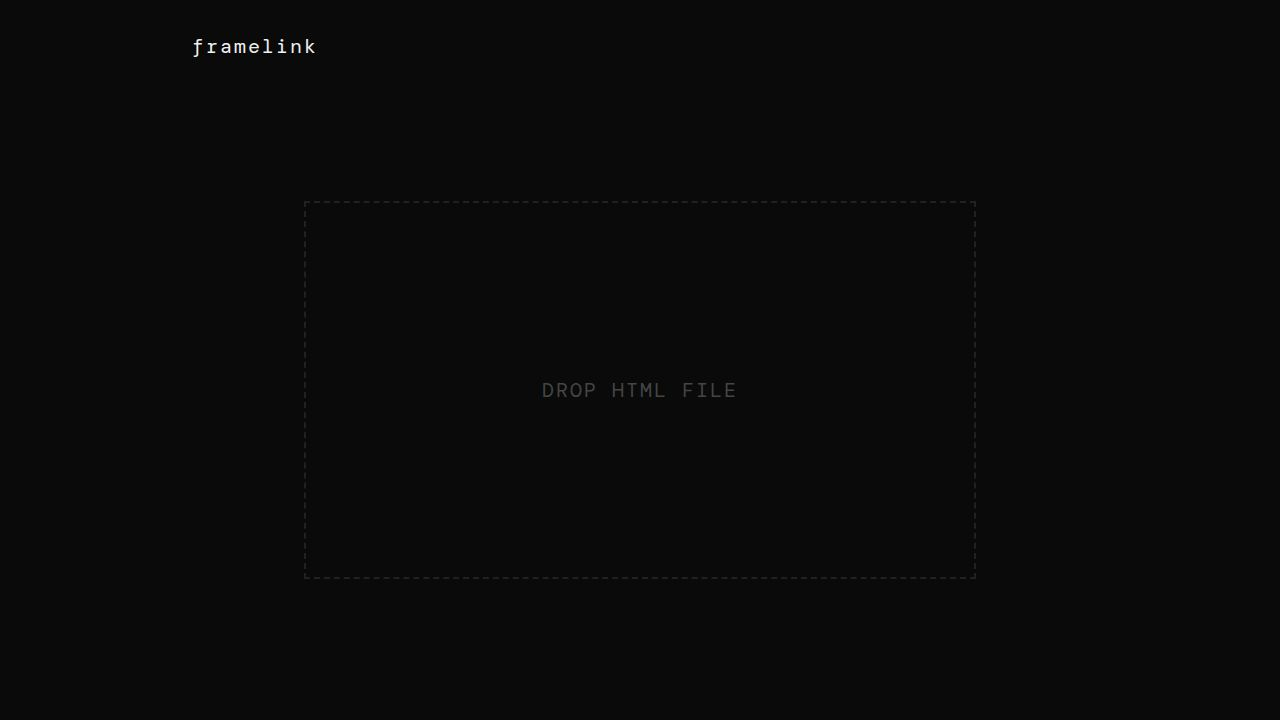
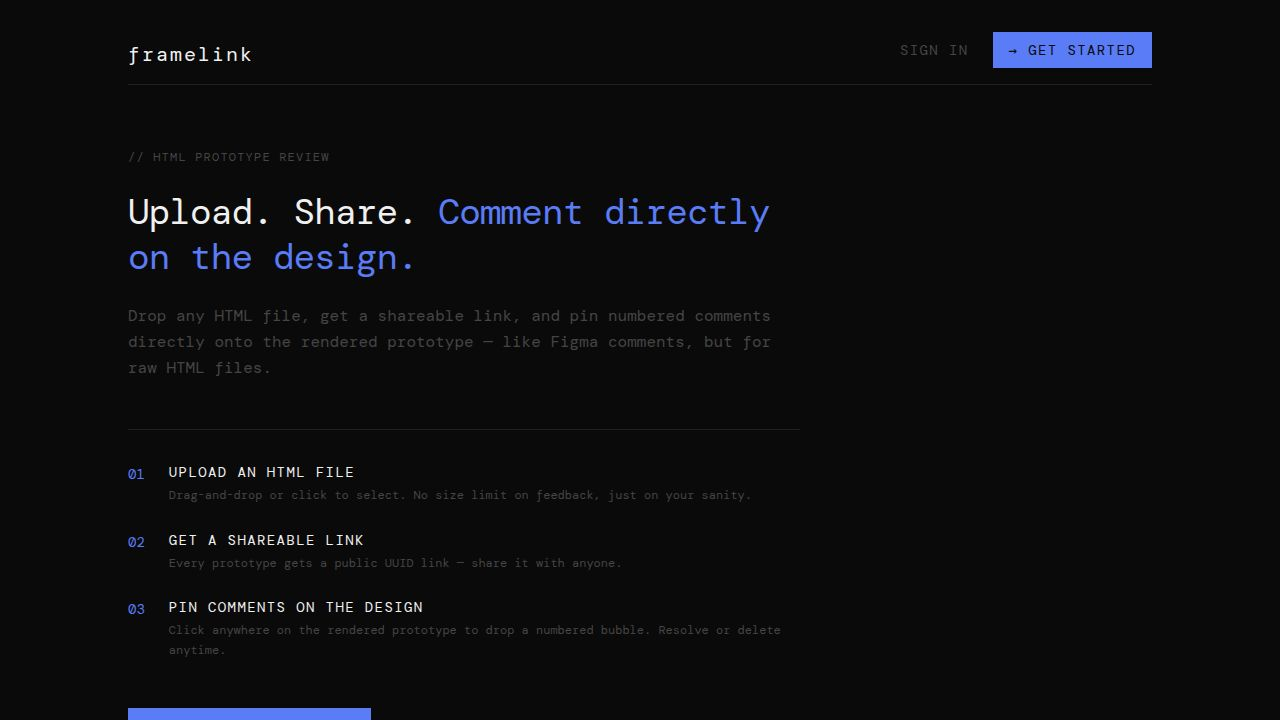
Comment discoverability & hover sync (Task #4)
Changes to artifacts/framelink/src/pages/View.tsx only:

1. Sidebar hover sync:
   - Added cardRefs (Map<string, HTMLDivElement>) with useCallback-stable setCardRef helper
   - useEffect watches hoveredBubbleId and calls scrollIntoView({behavior:"smooth",block:"nearest"})
   - Sidebar card gets bg-accent/10 + border-accent highlight when hoveredBubbleId === comment.id
   - Bubble scales up (scale-125) when hovered to reinforce the connection visually

2. Comment mode discoverability:
   - Toggle button redesigned: border-2 accent-colored border, "font-bold", "+ ADD COMMENT" label (was "// BROWSE")
   - When mode is off, a "click to pin feedback" hint label appears below the button
   - Empty sidebar state updated with a more instructive message pointing to the "+ ADD COMMENT" button

3. Crosshair cursor:
   - Added cursor-crosshair class to overlay div when commentMode is true

4. Minor: imported useCallback (was not imported before)

diff --git a/artifacts/framelink/src/pages/View.tsx b/artifacts/framelink/src/pages/View.tsx
@@ -1,4 +1,4 @@
-import React, { useState, useRef, useEffect, useMemo } from "react";
+import React, { useState, useRef, useEffect, useMemo, useCallback } from "react";
 import { useParams, Link } from "wouter";
 import { useQueryClient } from "@tanstack/react-query";
 import {
@@ -30,6 +30,16 @@ export default function View() {
   const [editText, setEditText] = useState("");
   const editRef = useRef<HTMLTextAreaElement>(null);
 
+  // Ref map for sidebar comment cards (for scroll-into-view on bubble hover)
+  const cardRefs = useRef<Map<string, HTMLDivElement>>(new Map());
+  const setCardRef = useCallback((commentId: string) => (node: HTMLDivElement | null) => {
+    if (node) {
+      cardRefs.current.set(commentId, node);
+    } else {
+      cardRefs.current.delete(commentId);
+    }
+  }, []);
+
   const { data: prototype } = useGetPrototype(id, {
     query: { enabled: !!id, queryKey: getGetPrototypeQueryKey(id) },
   });
@@ -59,6 +69,15 @@ export default function View() {
       editRef.current.select();
     }
   }, [editingCommentId]);
+
+  // Scroll hovered bubble's sidebar card into view
+  useEffect(() => {
+    if (!hoveredBubbleId) return;
+    const node = cardRefs.current.get(hoveredBubbleId);
+    if (node) {
+      node.scrollIntoView({ behavior: "smooth", block: "nearest" });
+    }
+  }, [hoveredBubbleId]);
 
   const blobUrl = useMemo(() => {
     if (!prototype?.htmlContent) return "";
@@ -191,20 +210,29 @@ export default function View() {
           <span>/</span>
           <span>{prototype.fileName}</span>
         </div>
-        <button
-          onClick={() => {
-            setCommentMode(!commentMode);
-            setPopup(null);
-          }}
-          className={`px-4 py-2 border uppercase tracking-wider interactive-element text-sm ${
-            commentMode
-              ? "bg-accent text-background border-accent"
-              : "border-border text-foreground hover:border-accent"
-          }`}
-          data-testid="btn-toggle-comment"
-        >
-          {commentMode ? "// COMMENTING" : "// BROWSE"}
-        </button>
+
+        {/* Comment mode toggle — prominent with hint label */}
+        <div className="flex flex-col items-end gap-1">
+          <button
+            onClick={() => {
+              setCommentMode(!commentMode);
+              setPopup(null);
+            }}
+            className={`px-5 py-2 border-2 uppercase tracking-wider interactive-element text-sm font-bold transition-colors ${
+              commentMode
+                ? "bg-accent text-background border-accent"
+                : "border-accent text-accent hover:bg-accent hover:text-background"
+            }`}
+            data-testid="btn-toggle-comment"
+          >
+            {commentMode ? "// COMMENTING" : "+ ADD COMMENT"}
+          </button>
+          {!commentMode && (
+            <span className="text-[10px] text-muted-foreground uppercase tracking-widest">
+              click to pin feedback
+            </span>
+          )}
+        </div>
       </header>
 
       <div className="flex-1 flex overflow-hidden">
@@ -218,7 +246,7 @@ export default function View() {
           />
 
           <div
-            className="absolute inset-0 z-10"
+            className={`absolute inset-0 z-10 ${commentMode ? "cursor-crosshair" : ""}`}
             style={{ pointerEvents: commentMode ? "auto" : "none" }}
             onClick={handleOverlayClick}
             data-testid="overlay"
@@ -239,9 +267,9 @@ export default function View() {
               >
                 {/* Bubble */}
                 <div
-                  className={`w-6 h-6 flex items-center justify-center cursor-pointer
+                  className={`w-6 h-6 flex items-center justify-center cursor-pointer transition-transform
                     ${comment.resolved ? "bg-[#444444] text-gray-300" : "bg-accent text-background"}
-                    ${activeCommentId === comment.id ? "ring-2 ring-white ring-offset-2 ring-offset-background" : ""}
+                    ${activeCommentId === comment.id || hoveredBubbleId === comment.id ? "scale-125" : ""}
                   `}
                   style={{
                     clipPath: "polygon(0 0, 100% 0, 100% 100%, 25% 100%, 0 75%)",
@@ -322,125 +350,139 @@ export default function View() {
           </div>
 
           <div className="flex-1 overflow-y-auto p-4 space-y-4">
-            {comments.map((comment, idx) => (
-              <div
-                key={comment.id}
-                className={`p-3 border-l-2 cursor-pointer interactive-element border border-border relative group ${
-                  comment.resolved
-                    ? "opacity-60 border-l-[#444444] bg-card"
-                    : "border-l-accent bg-card"
-                } ${activeCommentId === comment.id ? "ring-1 ring-border" : ""}`}
-                onClick={() => setActiveCommentId(comment.id)}
-                data-testid={`card-${comment.id}`}
-              >
-                {editingCommentId === comment.id ? (
-                  /* Edit mode */
-                  <div className="flex flex-col gap-2" onClick={(e) => e.stopPropagation()}>
-                    <div className="flex items-center gap-2 mb-1">
-                      <span
-                        className={`w-5 h-5 shrink-0 flex items-center justify-center text-xs ${
-                          comment.resolved ? "bg-[#444444] text-gray-300" : "bg-accent text-background"
-                        }`}
-                        style={{ clipPath: "polygon(0 0, 100% 0, 100% 100%, 25% 100%, 0 75%)" }}
-                      >
-                        {idx + 1}
-                      </span>
-                      <span className="text-xs text-muted-foreground uppercase tracking-wider">Editing</span>
+            {comments.map((comment, idx) => {
+              const isHovered = hoveredBubbleId === comment.id;
+              const isActive = activeCommentId === comment.id;
+              return (
+                <div
+                  key={comment.id}
+                  ref={setCardRef(comment.id)}
+                  className={`p-3 border-l-2 cursor-pointer interactive-element border border-border relative group transition-colors ${
+                    comment.resolved
+                      ? "opacity-60 border-l-[#444444] bg-card"
+                      : "border-l-accent bg-card"
+                  } ${isActive ? "ring-1 ring-border" : ""} ${
+                    isHovered ? "bg-accent/10 border-accent" : ""
+                  }`}
+                  onClick={() => setActiveCommentId(comment.id)}
+                  data-testid={`card-${comment.id}`}
+                >
+                  {editingCommentId === comment.id ? (
+                    /* Edit mode */
+                    <div className="flex flex-col gap-2" onClick={(e) => e.stopPropagation()}>
+                      <div className="flex items-center gap-2 mb-1">
+                        <span
+                          className={`w-5 h-5 shrink-0 flex items-center justify-center text-xs ${
+                            comment.resolved ? "bg-[#444444] text-gray-300" : "bg-accent text-background"
+                          }`}
+                          style={{ clipPath: "polygon(0 0, 100% 0, 100% 100%, 25% 100%, 0 75%)" }}
+                        >
+                          {idx + 1}
+                        </span>
+                        <span className="text-xs text-muted-foreground uppercase tracking-wider">Editing</span>
+                      </div>
+                      <textarea
+                        ref={editRef}
+                        value={editText}
+                        onChange={(e) => setEditText(e.target.value)}
+                        className="w-full bg-background border border-border text-foreground p-2 min-h-[64px] resize-none outline-none focus:border-accent text-sm"
+                        onKeyDown={(e) => {
+                          if (e.key === "Enter" && !e.shiftKey) {
+                            e.preventDefault();
+                            saveEdit(comment.id);
+                          } else if (e.key === "Escape") {
+                            e.stopPropagation();
+                            setEditingCommentId(null);
+                            setEditText("");
+                          }
+                        }}
+                        data-testid={`input-edit-comment-${comment.id}`}
+                      />
+                      <div className="flex justify-end gap-2">
+                        <button
+                          onClick={(e) => handleCancelEdit(e)}
+                          className="px-2 py-1 text-xs border border-border text-muted-foreground hover:border-accent interactive-element"
+                          data-testid={`btn-cancel-edit-${comment.id}`}
+                        >
+                          CANCEL
+                        </button>
+                        <button
+                          onClick={(e) => handleSaveEdit(comment.id, e)}
+                          className="px-2 py-1 text-xs border border-accent bg-accent text-background hover:opacity-90 interactive-element"
+                          data-testid={`btn-save-edit-${comment.id}`}
+                        >
+                          SAVE
+                        </button>
+                      </div>
                     </div>
-                    <textarea
-                      ref={editRef}
-                      value={editText}
-                      onChange={(e) => setEditText(e.target.value)}
-                      className="w-full bg-background border border-border text-foreground p-2 min-h-[64px] resize-none outline-none focus:border-accent text-sm"
-                      onKeyDown={(e) => {
-                        if (e.key === "Enter" && !e.shiftKey) {
-                          e.preventDefault();
-                          saveEdit(comment.id);
-                        } else if (e.key === "Escape") {
-                          e.stopPropagation();
-                          setEditingCommentId(null);
-                          setEditText("");
-                        }
-                      }}
-                      data-testid={`input-edit-comment-${comment.id}`}
-                    />
-                    <div className="flex justify-end gap-2">
-                      <button
-                        onClick={(e) => handleCancelEdit(e)}
-                        className="px-2 py-1 text-xs border border-border text-muted-foreground hover:border-accent interactive-element"
-                        data-testid={`btn-cancel-edit-${comment.id}`}
-                      >
-                        CANCEL
-                      </button>
-                      <button
-                        onClick={(e) => handleSaveEdit(comment.id, e)}
-                        className="px-2 py-1 text-xs border border-accent bg-accent text-background hover:opacity-90 interactive-element"
-                        data-testid={`btn-save-edit-${comment.id}`}
-                      >
-                        SAVE
-                      </button>
-                    </div>
-                  </div>
-                ) : (
-                  /* Read mode */
-                  <>
-                    <div className="flex items-start gap-2 mb-2 pr-16">
-                      <span
-                        className={`w-5 h-5 shrink-0 flex items-center justify-center text-xs ${
-                          comment.resolved ? "bg-[#444444] text-gray-300" : "bg-accent text-background"
-                        }`}
-                        style={{ clipPath: "polygon(0 0, 100% 0, 100% 100%, 25% 100%, 0 75%)" }}
-                      >
-                        {idx + 1}
-                      </span>
-                      <p
-                        className={`text-sm ${
-                          comment.resolved ? "line-through text-muted-foreground" : "text-foreground"
-                        }`}
-                        onDoubleClick={(e) => startEdit(comment.id, comment.text, e)}
-                        title="Double-click to edit"
-                      >
-                        {comment.text}
-                      </p>
-                    </div>
+                  ) : (
+                    /* Read mode */
+                    <>
+                      <div className="flex items-start gap-2 mb-2 pr-16">
+                        <span
+                          className={`w-5 h-5 shrink-0 flex items-center justify-center text-xs ${
+                            comment.resolved ? "bg-[#444444] text-gray-300" : "bg-accent text-background"
+                          }`}
+                          style={{ clipPath: "polygon(0 0, 100% 0, 100% 100%, 25% 100%, 0 75%)" }}
+                        >
+                          {idx + 1}
+                        </span>
+                        <p
+                          className={`text-sm ${
+                            comment.resolved ? "line-through text-muted-foreground" : "text-foreground"
+                          }`}
+                          onDoubleClick={(e) => startEdit(comment.id, comment.text, e)}
+                          title="Double-click to edit"
+                        >
+                          {comment.text}
+                        </p>
+                      </div>
 
-                    {/* Action buttons — visible on hover */}
-                    <div className="absolute top-2 right-2 flex items-center gap-2 opacity-0 group-hover:opacity-100 transition-opacity">
-                      <button
-                        onClick={(e) => startEdit(comment.id, comment.text, e)}
-                        className="text-muted-foreground hover:text-accent interactive-element text-xs"
-                        title="Edit comment"
-                        data-testid={`btn-edit-comment-${comment.id}`}
-                      >
-                        ✎
-                      </button>
-                      <button
-                        onClick={(e) => handleDeleteComment(comment.id, e)}
-                        className="text-muted-foreground hover:text-red-500 interactive-element text-xs"
-                        title="Delete comment"
-                        data-testid={`btn-delete-comment-${comment.id}`}
-                      >
-                        ✕
-                      </button>
-                    </div>
+                      {/* Action buttons — visible on hover */}
+                      <div className="absolute top-2 right-2 flex items-center gap-2 opacity-0 group-hover:opacity-100 transition-opacity">
+                        <button
+                          onClick={(e) => startEdit(comment.id, comment.text, e)}
+                          className="text-muted-foreground hover:text-accent interactive-element text-xs"
+                          title="Edit comment"
+                          data-testid={`btn-edit-comment-${comment.id}`}
+                        >
+                          ✎
+                        </button>
+                        <button
+                          onClick={(e) => handleDeleteComment(comment.id, e)}
+                          className="text-muted-foreground hover:text-red-500 interactive-element text-xs"
+                          title="Delete comment"
+                          data-testid={`btn-delete-comment-${comment.id}`}
+                        >
+                          ✕
+                        </button>
+                      </div>
 
-                    <div className="flex justify-end mt-3">
-                      <button
-                        onClick={(e) => handleToggleResolve(comment.id, e)}
-                        className="text-[10px] uppercase tracking-wider text-muted-foreground border border-border px-2 py-1 interactive-element hover:border-accent hover:text-accent"
-                        data-testid={`btn-resolve-${comment.id}`}
-                      >
-                        {comment.resolved ? "REOPEN" : "RESOLVE"}
-                      </button>
-                    </div>
-                  </>
-                )}
-              </div>
-            ))}
+                      <div className="flex justify-end mt-3">
+                        <button
+                          onClick={(e) => handleToggleResolve(comment.id, e)}
+                          className="text-[10px] uppercase tracking-wider text-muted-foreground border border-border px-2 py-1 interactive-element hover:border-accent hover:text-accent"
+                          data-testid={`btn-resolve-${comment.id}`}
+                        >
+                          {comment.resolved ? "REOPEN" : "RESOLVE"}
+                        </button>
+                      </div>
+                    </>
+                  )}
+                </div>
+              );
+            })}
 
             {comments.length === 0 && (
-              <div className="text-muted-foreground text-sm text-center py-8">
-                NO COMMENTS YET
+              <div className="flex flex-col items-center gap-3 py-12 text-center">
+                <p className="text-muted-foreground text-sm uppercase tracking-widest">
+                  No comments yet
+                </p>
+                <p className="text-muted-foreground text-xs leading-relaxed max-w-[200px]">
+                  Click{" "}
+                  <span className="text-accent font-bold">+ ADD COMMENT</span>{" "}
+                  in the toolbar, then click anywhere on the design to pin feedback
+                </p>
               </div>
             )}
           </div>